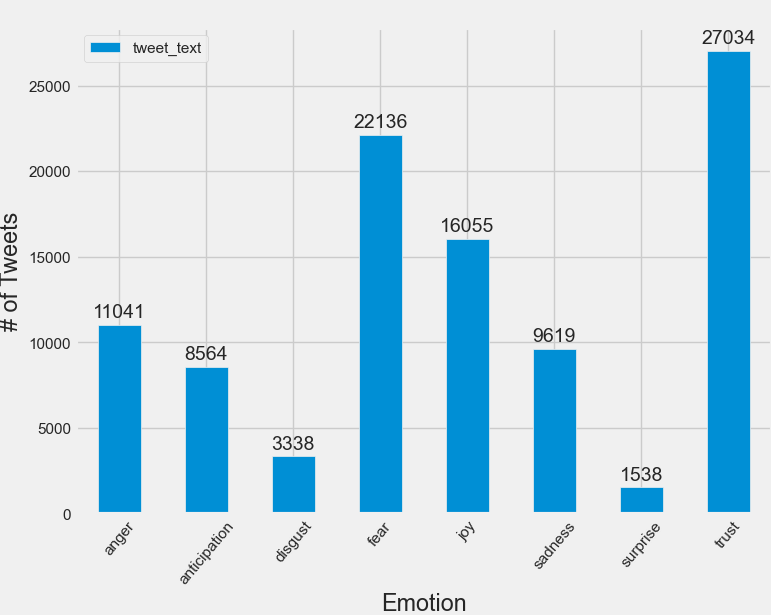
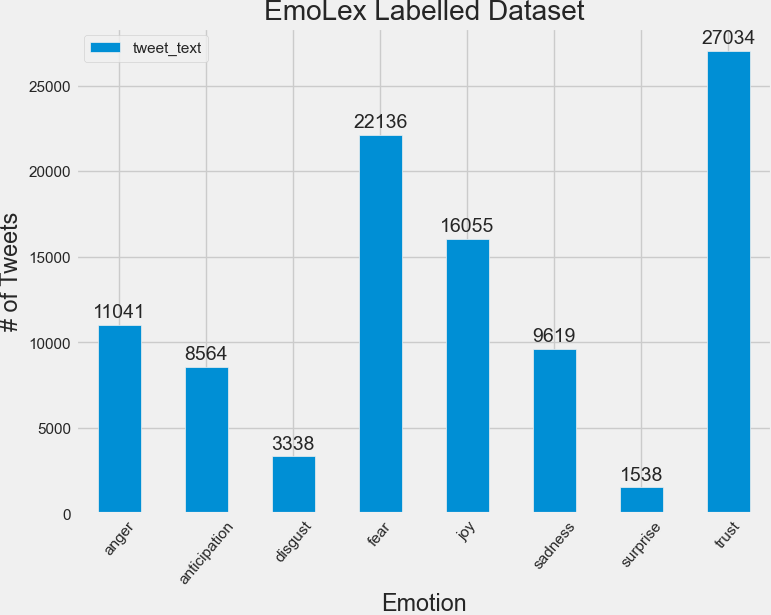
update

Changed region(s): [[0.3424, 0.0, 0.7782, 0.0309]]

diff --git a/dataset/unlabeled/generate_baseline_dataset.py b/dataset/unlabeled/generate_baseline_dataset.py
@@ -50,7 +50,7 @@ FileController.save_df_to_csv(unlabeled_path + "master/baseline-dataset.csv", df
 img_path = out_path+"../final_tweet_count.png"
 df_count = df.loc[:, ['sentiment', 'tweet_text']]
 df_count = df_count.groupby("sentiment").count()
-BarPlotViz.generate_barplot(df_count, " ", "Emotion", "# of Tweets", img_path)
+BarPlotViz.generate_barplot(df_count, "EmoLex Labelled Dataset", "Emotion", "# of Tweets", img_path)
 
 
 

diff --git a/dataset/labeled/generate_baseline_dataset.py b/dataset/labeled/generate_baseline_dataset.py
@@ -32,4 +32,4 @@ BaselineViz.run(df, out_path)
 img_path = out_path+"../final_tweet_count.png"
 df_count = df.loc[:, ['sentiment', 'tweet_text']]
 df_count = df_count.groupby("sentiment").count()
-BarPlotViz.generate_barplot(df_count, " ", "Emotion", "# of Tweets", img_path)
+BarPlotViz.generate_barplot(df_count, "Prelabelled Dataset", "Emotion", "# of Tweets", img_path)
